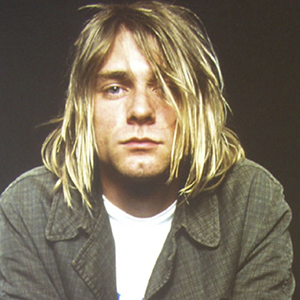
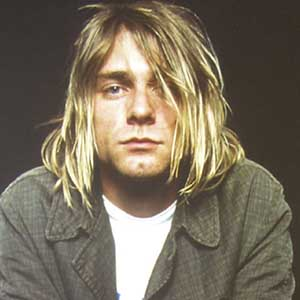
fix: Images optimizations

diff --git a/app/containers/PressPage/index.js b/app/containers/PressPage/index.js
@@ -6,7 +6,7 @@ import React from 'react' // eslint-disable-line no-unused-vars
 import PageLogo from '../../styled/PageLogo'
 import Footer from '../../styled/Footer'
 
-import pageBack from '../../images/press.png'
+import pageBack from '../../images/press.jpg'
 
 /*
  * PressPage
